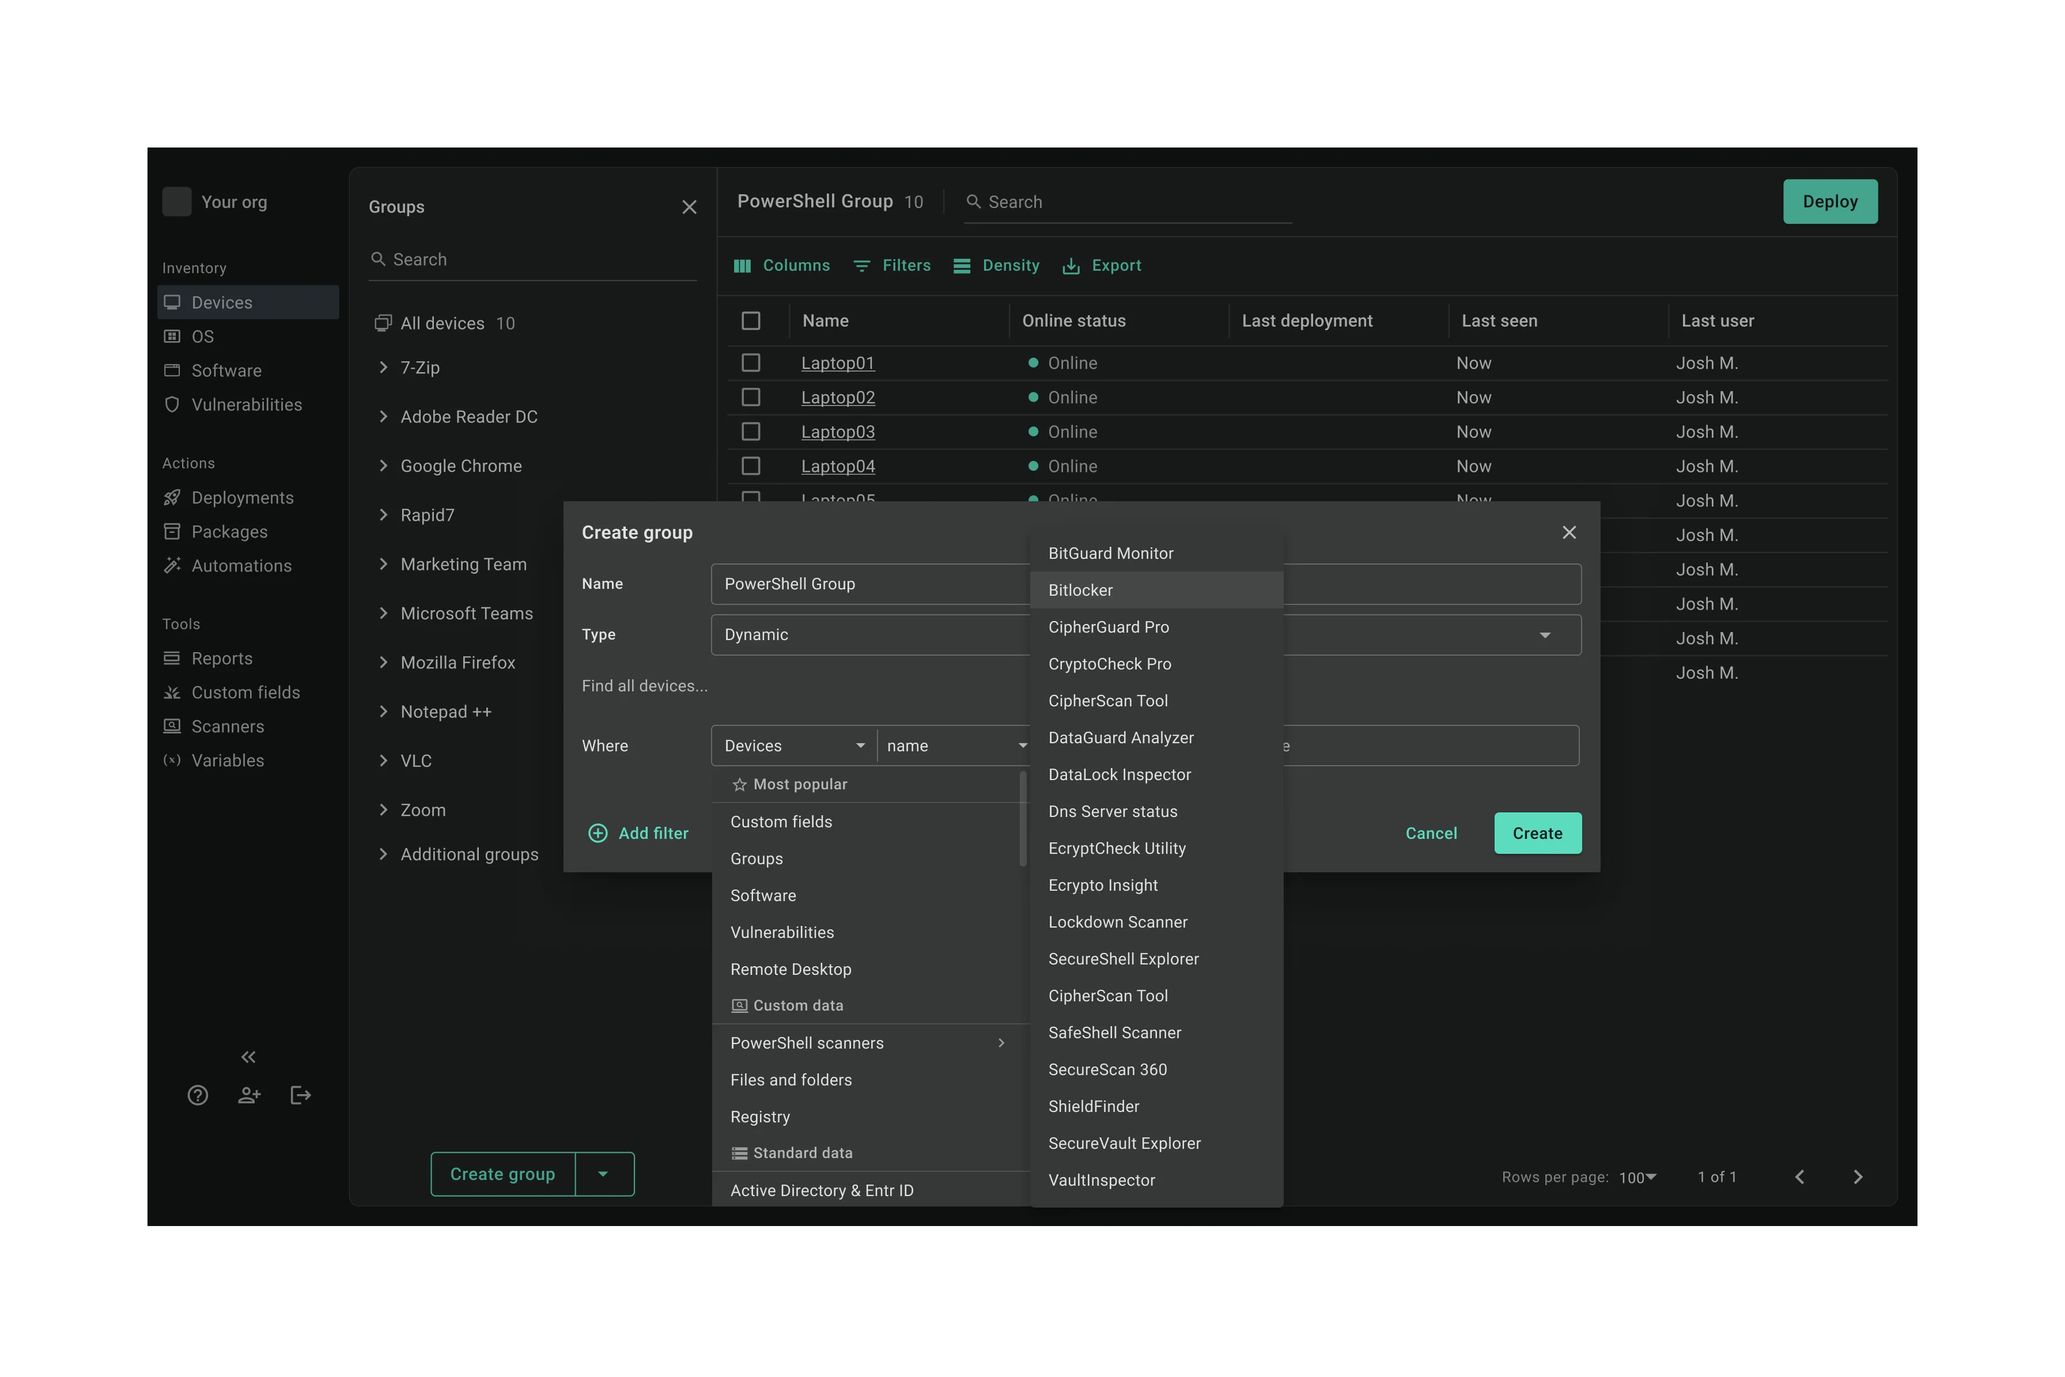
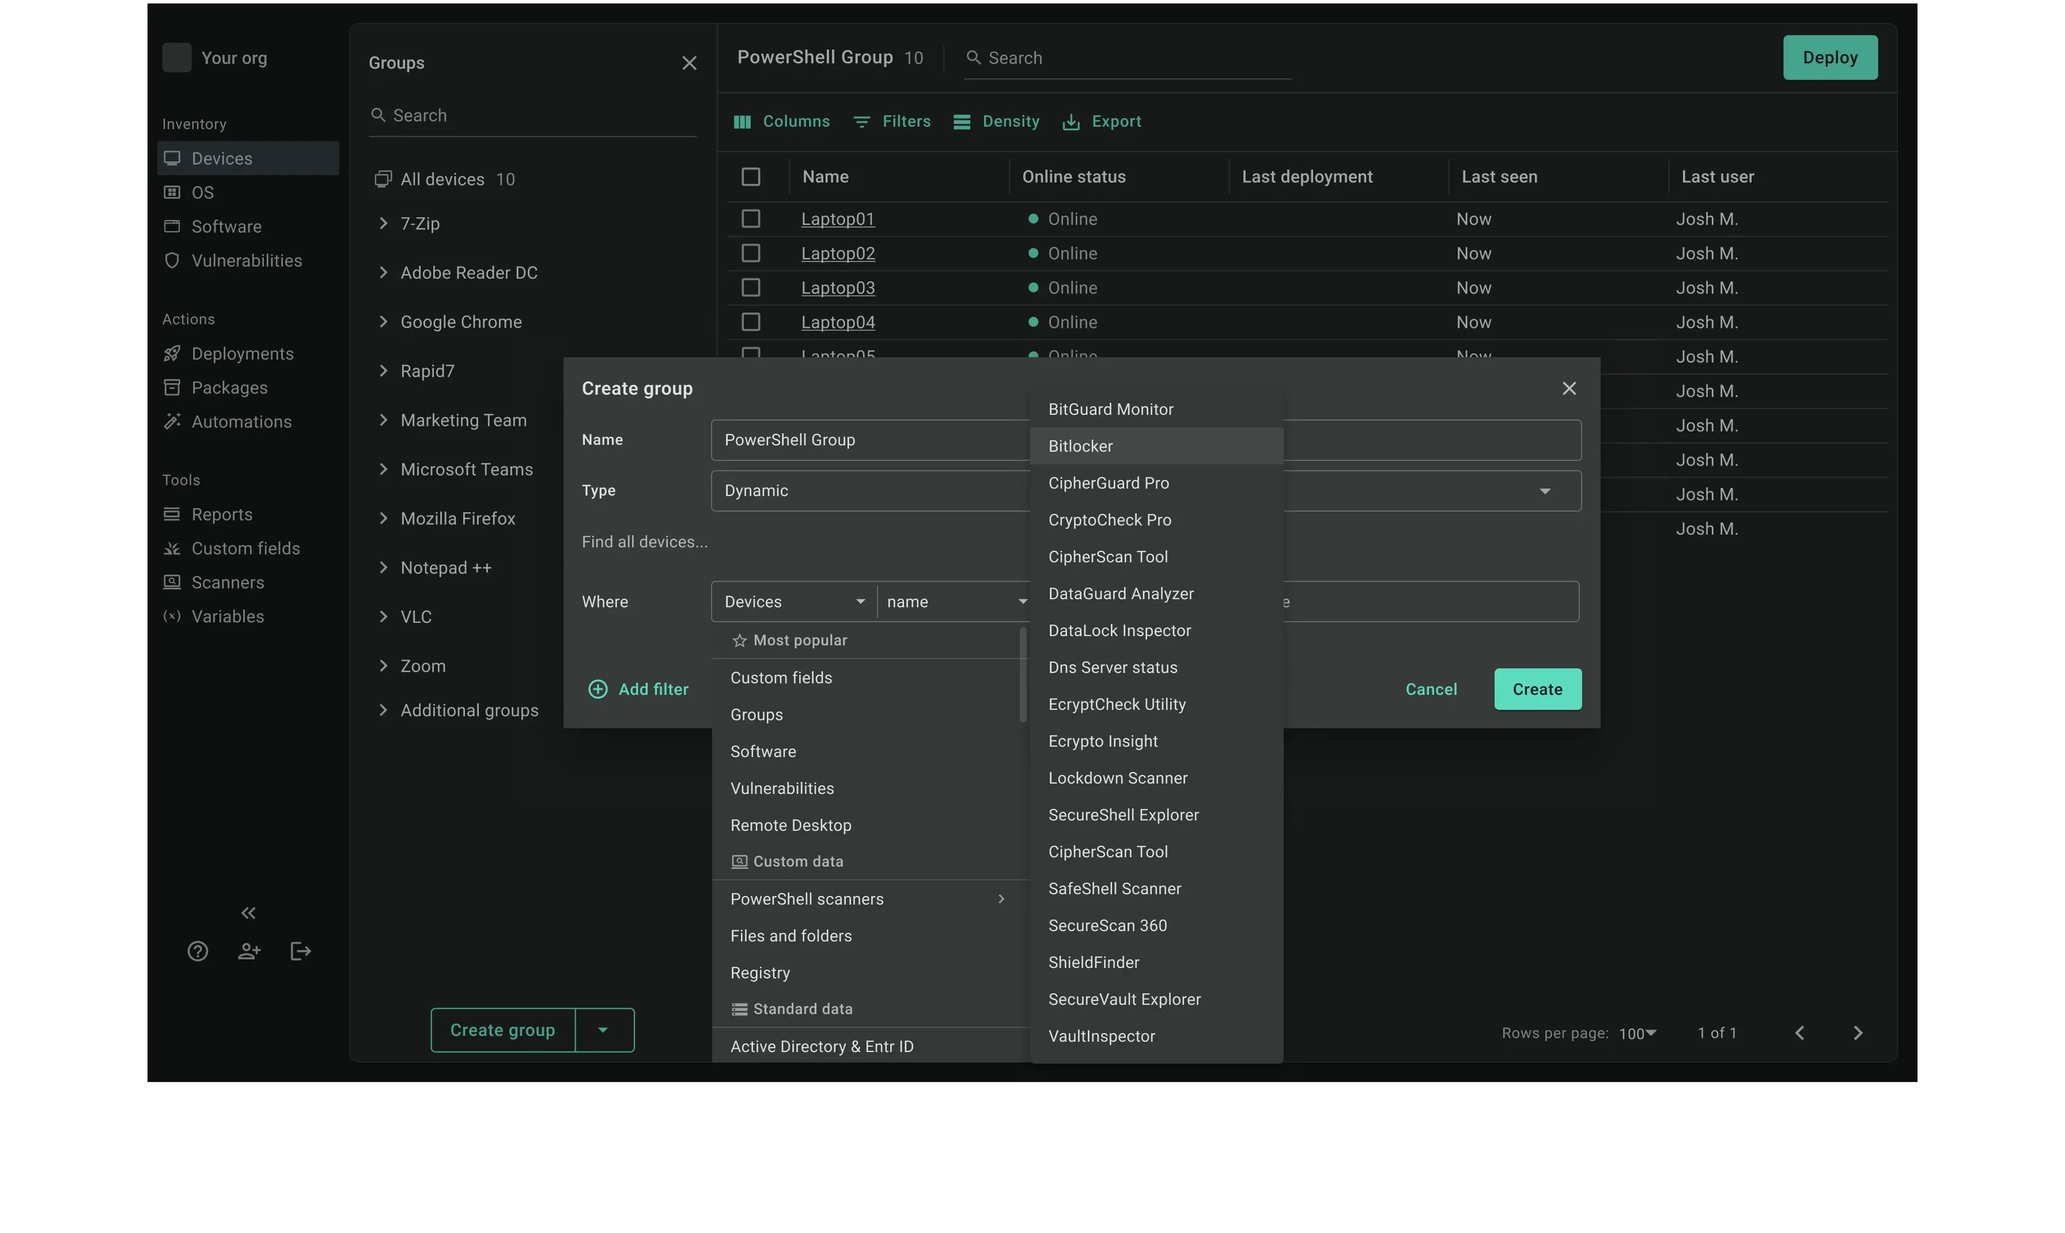
Case study layout fixes, image cleanup, and hero image removal
- Remove hero thumbnail images from all case study pages
- Restrict alternating side-by-side layout to AI Projects only
- Remove unapproved discord comment images from PowerShell sections
- Set all single images to sm size across case studies
- Crop filter dropdown image to reduce top padding
- Set discord outreach and composite images to smaller sizes

diff --git a/src/data/projects.ts b/src/data/projects.ts
@@ -85,17 +85,7 @@ export const projects: Project[] = [
         title: "The #1 most requested feature",
         body: "When admins moved from D&I to Connect, they lost access to their PowerShell scripts. Workflows they had built over years suddenly needed workarounds. The frustration showed up everywhere: support tickets, forums, Discord threads. It was the most requested feature for years.",
         image: "/images/projects/powershell-scanner-pdq/discord-comments-composite.webp",
-        imageSize: "full",
-        blocks: [
-          {
-            type: "gallery",
-            columns: 2,
-            images: [
-              "/images/projects/powershell-scanner-pdq/discord-comment-1.webp",
-              "/images/projects/powershell-scanner-pdq/discord-comment-4.webp",
-            ],
-          },
-        ],
+        imageSize: "medium",
       },
       {
         title: "Left behind when we moved to the cloud",
@@ -193,7 +183,6 @@ export const projects: Project[] = [
         title: "Going straight to the source",
         body: "I reached out to the same community that had been asking for this feature for years. Within two weeks I scheduled over 7 calls. Since I didn't have prototypes yet, their feedback helped me iterate for the next call. They were the right people to pressure-test it. They knew the old scanner inside and out, and they weren't shy about telling us when something felt off.",
         image: "/images/projects/powershell-scanner-pdq/discord-outreach.webp",
-        image2: "/images/projects/powershell-scanner-pdq/discord-comment-3.webp",
         imageSize: "sm",
       },
       {
@@ -222,8 +211,7 @@ export const projects: Project[] = [
         title: "Scanners as a fleet superpower",
         body: "The 3-step workflow solved the system strain problem too. Scripts don't run fleet-wide until the admin confirms the output looks right on one device first, eliminating the risk of a bad script taking down infrastructure for everyone.\n\nOnce validated, scanner data becomes a filter condition and automation trigger across Connect. Check BitLocker status, group every at-risk device, deploy a fix, and automate it going forward. All from one scanner.",
         image: "/images/projects/powershell-scanner-pdq/final-filter-dropdown.webp",
-        image2: "/images/projects/powershell-scanner-pdq/discord-comment-2.webp",
-        imageSize: "sm",
+        imageSize: "full",
         blocks: [
           {
             type: "link",
@@ -320,6 +308,7 @@ export const projects: Project[] = [
         title: "The best lessons are the ones you teach yourself",
         body: "The results of my audits made one thing clear: I needed to become an expert in accessibility before making any major changes. I read books, took courses, and studied WCAG standards. By the end of my self-directed boot camp, I was recognized as an accessibility expert by UXCEL, scoring in the top 10%.",
         image: "/images/projects/design-system-klas/accessibility-certificate.webp",
+        imageSize: "medium",
       },
       {
         title: "Re-designing the components",
@@ -331,7 +320,7 @@ export const projects: Project[] = [
         body: "Users were frustrated because data visualizations had too many colors and data points, making them hard to read. Best practice calls for no more than 6 data points on a graph, but KLAS frequently had up to 12. I collaborated with multiple teams to build a color palette that was:",
         image: "/images/projects/design-system-klas/data-viz-colors.webp",
         image2: "/images/projects/design-system-klas/chart-types.webp",
-        imageSize: "sm",
+        imageSize: "medium",
         blocks: [
           {
             type: "list",
@@ -353,6 +342,7 @@ export const projects: Project[] = [
         title: "Documentation and implementation",
         body: "All this work would mean nothing without documentation. I created documentation for every component and color, covering:",
         image: "/images/projects/design-system-klas/documentation-intro.webp",
+        imageSize: "sm",
         blocks: [
           {
             type: "list",
@@ -495,11 +485,13 @@ export const projects: Project[] = [
         title: "Undiscovered",
         body: "CVMA is full of some of the best coaches Utah has to offer. World team members, Gold Glove winners, and black belts could be found on their staff. CVMA wanted to take the next step to increase its customer base and grow its semi-pro fighting team.",
         image: "/images/projects/web-design-cvma/gym-wall-punching-bag.webp",
+        imageSize: "sm",
       },
       {
         title: "A local gym with world level talent",
         body: "Have you ever been secretly good at something and it was fun to keep it on the down low? Well, CVMA was great at what they did and was tired of being kept secret. The problem was that CVMA is in Logan, UT, a city usually flooded with seasonal, broke college students. CVMA needed to switch its brand and marketing strategy to attract its real target audience: students and families.",
         image: "/images/projects/web-design-cvma/gym-winning-medal.webp",
+        imageSize: "sm",
         blocks: [
           {
             type: "list",
@@ -512,7 +504,7 @@ export const projects: Project[] = [
       },
       {
         title: "What does this mean for the business?",
-        body: "",
+        body: "The research made the stakes clear. CVMA wasn't just competing for members — it was competing against a deeply held stigma. Three things had to be true for the business to grow:",
         blocks: [
           {
             type: "list",
@@ -575,6 +567,7 @@ export const projects: Project[] = [
         title: "Marketing plan",
         body: "As the sole designer, I created an in-depth marketing plan for CVMA. Equipped with a new website, brand, and SEO, a marketing plan was the last thing CVMA needed to succeed. This plan included an estimated budget, measurements of success, examples, and clear instructions on the type of content needed to attract their target audience.",
         image: "/images/projects/web-design-cvma/social-media-images.webp",
+        imageSize: "medium",
       },
     ],
   },

diff --git a/src/components/layout/MobileMenu.tsx b/src/components/layout/MobileMenu.tsx
@@ -3,15 +3,23 @@
 import { useEffect, useRef } from "react";
 import { motion } from "framer-motion";
 import Link from "next/link";
-
-const navLinks = [
-  { href: "/#work", label: "Work", external: false },
-  { href: "/resume.pdf", label: "Resume", external: true },
-  { href: "/#contact", label: "Contact", external: false },
-];
+import { navLinks } from "@/data/navigation";
 
 export default function MobileMenu({ onClose }: { onClose: () => void }) {
   const closeRef = useRef<HTMLButtonElement>(null);
+  const menuRef = useRef<HTMLDivElement>(null);
+  const focusableRef = useRef<HTMLElement[]>([]);
+
+  // Cache focusable elements once after mount
+  useEffect(() => {
+    if (menuRef.current) {
+      focusableRef.current = Array.from(
+        menuRef.current.querySelectorAll<HTMLElement>(
+          'a[href], button, [tabindex]:not([tabindex="-1"])'
+        )
+      );
+    }
+  }, []);
 
   useEffect(() => {
     closeRef.current?.focus();
@@ -20,11 +28,8 @@ export default function MobileMenu({ onClose }: { onClose: () => void }) {
       if (e.key === "Escape") onClose();
 
       if (e.key === "Tab") {
-        const menu = document.querySelector('[role="dialog"]');
-        if (!menu) return;
-        const focusable = menu.querySelectorAll<HTMLElement>(
-          'a[href], button, [tabindex]:not([tabindex="-1"])'
-        );
+        const focusable = focusableRef.current;
+        if (!focusable.length) return;
         const first = focusable[0];
         const last = focusable[focusable.length - 1];
 
@@ -53,6 +58,7 @@ export default function MobileMenu({ onClose }: { onClose: () => void }) {
       animate={{ opacity: 1 }}
       exit={{ opacity: 0 }}
       transition={{ duration: 0.3 }}
+      ref={menuRef}
       className="fixed inset-0 z-50 bg-bg-primary"
       role="dialog"
       aria-modal="true"
@@ -72,6 +78,7 @@ export default function MobileMenu({ onClose }: { onClose: () => void }) {
             fill="none"
             stroke="currentColor"
             strokeWidth="1.5"
+            aria-hidden="true"
           >
             <line x1="4" y1="4" x2="16" y2="16" />
             <line x1="16" y1="4" x2="4" y2="16" />
@@ -91,6 +98,7 @@ export default function MobileMenu({ onClose }: { onClose: () => void }) {
               href={link.href}
               onClick={onClose}
               {...(link.external ? { target: "_blank", rel: "noopener noreferrer" } : {})}
+              {...(link.download ? { download: true } : {})}
               className="text-3xl font-medium text-text-primary"
             >
               {link.label}

diff --git a/src/components/case-study/ProcessSection.tsx b/src/components/case-study/ProcessSection.tsx
@@ -6,7 +6,7 @@ import Lightbox from "@/components/ui/Lightbox";
 import BeforeAfterToggle from "@/components/ui/BeforeAfterToggle";
 import type { ProjectSection } from "@/data/projects";
 
-export default function ProcessSection({ sections, label }: { sections: ProjectSection[]; label?: { eyebrow: string; heading: string } }) {
+export default function ProcessSection({ sections, label, alternatingLayout }: { sections: ProjectSection[]; label?: { eyebrow: string; heading: string }; alternatingLayout?: boolean }) {
   return (
     <section className="border-t border-border py-16 md:py-24">
       <Container>
@@ -20,11 +20,12 @@ export default function ProcessSection({ sections, label }: { sections: ProjectS
         <div className="mt-12 space-y-16">
           {sections.map((section, i) => {
             const hasSingleImage = !!(section.image && !section.image2);
+            const useSideLayout = alternatingLayout && hasSingleImage;
             const isReversed = i % 2 === 1;
             return (
             <ScrollReveal key={section.title} delay={i * 0.08}>
-              <div className={hasSingleImage ? `flex flex-col gap-8 md:grid md:grid-cols-2 md:gap-12 md:items-center` : ``}>
-                <div className={hasSingleImage && isReversed ? "md:order-2" : ""}>
+              <div className={useSideLayout ? `flex flex-col gap-8 md:grid md:grid-cols-2 md:gap-12 md:items-center` : ``}>
+                <div className={useSideLayout && isReversed ? "md:order-2" : ""}>
                   <h3 className="text-xl font-semibold text-text-primary">
                     {section.title}
                   </h3>
@@ -192,8 +193,13 @@ export default function ProcessSection({ sections, label }: { sections: ProjectS
                   )}
                 </div>
 
-                {hasSingleImage && (
+                {useSideLayout && (
                   <div className={`overflow-hidden rounded-xl ${isReversed ? "md:order-1" : ""}`}>
+                    <Lightbox src={section.image!} alt={section.title} />
+                  </div>
+                )}
+                {hasSingleImage && !alternatingLayout && (
+                  <div className={`mt-8 overflow-hidden rounded-xl ${section.imageSize === "sm" ? "max-w-lg mx-auto" : section.imageSize === "medium" ? "max-w-3xl mx-auto" : ""}`}>
                     <Lightbox src={section.image!} alt={section.title} />
                   </div>
                 )}

diff --git a/src/components/layout/Header.tsx b/src/components/layout/Header.tsx
@@ -5,12 +5,7 @@ import { motion, AnimatePresence } from "framer-motion";
 import Link from "next/link";
 import { usePathname } from "next/navigation";
 import MobileMenu from "./MobileMenu";
-
-const navLinks = [
-  { href: "/#work", label: "Work", external: false, download: false },
-  { href: "/resume.pdf", label: "Resume", external: true, download: true },
-  { href: "/#contact", label: "Contact", external: false, download: false },
-];
+import { navLinks } from "@/data/navigation";
 
 export default function Header() {
   const pathname = usePathname();
@@ -50,6 +45,7 @@ export default function Header() {
                   href={link.href}
                   aria-current={pathname === link.href ? "page" : undefined}
                   {...(link.external ? { target: "_blank", rel: "noopener noreferrer" } : {})}
+                  {...(link.download ? { download: true } : {})}
                   className="text-sm text-text-secondary transition-colors hover:text-text-primary"
                 >
                   {link.label}

diff --git a/src/components/home/StatementSection.tsx b/src/components/home/StatementSection.tsx
@@ -20,7 +20,7 @@ export default function StatementSection() {
             threshold={0.1}
             rootMargin="-60px"
             textAlign="left"
-            className="font-display text-4xl font-bold leading-tight tracking-tight text-text-primary md:text-6xl"
+            className="font-sans text-4xl font-bold leading-tight tracking-tight text-text-primary md:text-6xl"
           />
           <SplitText
             text="Because users didn't sign up for a learning curve. "
@@ -34,7 +34,7 @@ export default function StatementSection() {
             threshold={0.1}
             rootMargin="-60px"
             textAlign="left"
-            className="font-display text-4xl font-bold leading-tight tracking-tight text-accent md:text-6xl"
+            className="font-sans text-4xl font-bold leading-tight tracking-tight text-accent md:text-6xl"
           />
         </h2>
       </Container>

diff --git a/src/components/home/ToolsSection.tsx b/src/components/home/ToolsSection.tsx
@@ -14,6 +14,7 @@ import {
   siMixpanel, siGoogleanalytics, siNotion, siJira, siConfluence,
   siLinear, siLoom, siWordpress, siClaude, siN8n, siQualtrics,
 } from "simple-icons";
+import { hexToRgb } from '@/lib/colorUtils';
 
 const iconPaths: Record<string, string> = {
   siFigma:            siFigma.path,
@@ -32,13 +33,6 @@ const iconPaths: Record<string, string> = {
   siN8n:              siN8n.path,
   siQualtrics:        siQualtrics.path,
 };
-
-function hexToRgb(hex: string): string {
-  const r = parseInt(hex.slice(1, 3), 16);
-  const g = parseInt(hex.slice(3, 5), 16);
-  const b = parseInt(hex.slice(5, 7), 16);
-  return `${r}, ${g}, ${b}`;
-}
 
 function ToolIcon({ tool, color }: { tool: Tool; color: string }) {
   const svgProps = {

diff --git a/src/components/home/Hero.tsx b/src/components/home/Hero.tsx
@@ -71,7 +71,7 @@ export default function Hero() {
             initial={{ opacity: 0, y: 24 }}
             animate={{ opacity: 1, y: 0 }}
             transition={{ duration: 0.7, delay: 0.2, ease: [0.16, 1, 0.3, 1] }}
-            className="font-display text-4xl font-bold leading-tight tracking-tight text-text-primary md:text-6xl md:leading-tight"
+            className="font-sans text-4xl font-bold leading-tight tracking-tight text-text-primary md:text-6xl md:leading-tight"
             aria-label="Let's turn complex products into intuitive, scalable, accessible, and impactful digital experiences."
           >
             <span className="block">

diff --git a/src/components/home/BentoCaseStudyGrid.tsx b/src/components/home/BentoCaseStudyGrid.tsx
@@ -5,13 +5,7 @@ import Link from 'next/link';
 import { projects } from '@/data/projects';
 import ProjectThumbnail from '@/components/ui/ProjectThumbnail';
 import SpotlightCard from '@/components/ui/SpotlightCard';
-
-function hexToRgb(hex: string): string {
-  const r = parseInt(hex.slice(1, 3), 16);
-  const g = parseInt(hex.slice(3, 5), 16);
-  const b = parseInt(hex.slice(5, 7), 16);
-  return `${r}, ${g}, ${b}`;
-}
+import { hexToRgb } from '@/lib/colorUtils';
 
 export default function BentoCaseStudyGrid() {
   const gridRef = useRef<HTMLDivElement>(null);

diff --git a/src/components/case-study/TestimonialSection.tsx b/src/components/case-study/TestimonialSection.tsx
@@ -13,7 +13,7 @@ export default function TestimonialSection({
       <Container>
         <ScrollReveal>
           <div className="max-w-3xl">
-            <span className="font-display text-6xl leading-none text-accent" aria-hidden="true">
+            <span className="font-sans text-6xl leading-none text-accent" aria-hidden="true">
               &ldquo;
             </span>
             <p className="mt-2 text-2xl font-semibold leading-snug text-text-primary md:text-3xl">

diff --git a/src/app/work/[slug]/page.tsx b/src/app/work/[slug]/page.tsx
@@ -65,7 +65,7 @@ export default async function CaseStudyPage({
         challenge={project.challenge}
         solution={project.solution}
       />
-      <ProcessSection sections={project.sections} label={project.processLabel} />
+      <ProcessSection sections={project.sections} label={project.processLabel} alternatingLayout={!!project.processLabel} />
       <ResultsSection results={project.results} />
 
       {project.testimonial && (

diff --git a/src/components/case-study/CaseStudyHero.tsx b/src/components/case-study/CaseStudyHero.tsx
@@ -1,7 +1,6 @@
 "use client";
 
 import { motion } from "framer-motion";
-import Image from "next/image";
 import Container from "@/components/ui/Container";
 import type { Project } from "@/data/projects";
 
@@ -50,6 +49,7 @@ export default function CaseStudyHero({ project }: { project: Project }) {
             </div>
           </motion.div>
         )}
+
       </Container>
     </section>
   );

diff --git a/src/data/navigation.ts b/src/data/navigation.ts
@@ -1,0 +1,5 @@
+export const navLinks = [
+  { href: "/#work", label: "Work", external: false, download: false },
+  { href: "/resume.pdf", label: "Resume", external: true, download: false },
+  { href: "/#contact", label: "Contact", external: false, download: false },
+];
